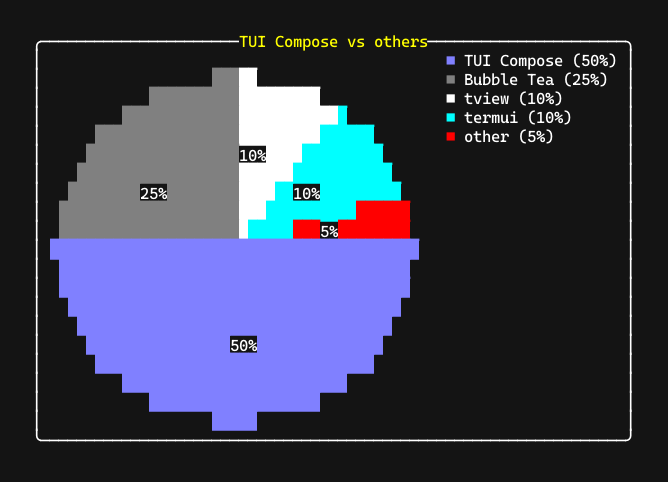
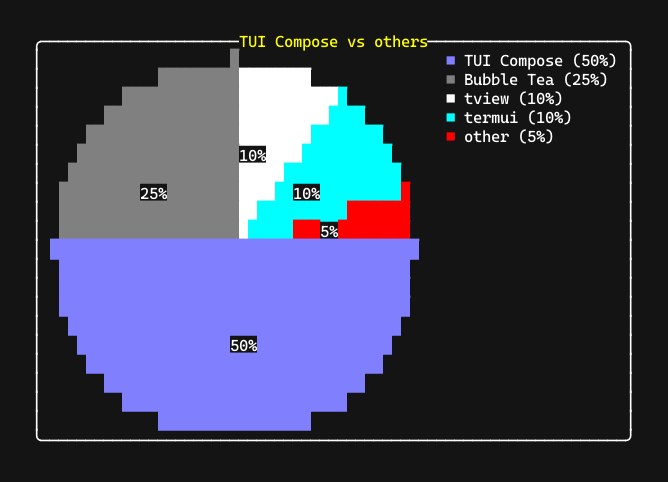
fix: соотношение сторон PieChart

diff --git a/extra/piechart.go b/extra/piechart.go
@@ -127,7 +127,7 @@ func (pc *PieChart) InnerText() string {
 		// Считаем угол от центра к этой точке
 
 		dx := float64(x - cx)
-		dy := float64(y-cy) * 2.2 // коррекция соотношения сторон, подобрано
+		dy := float64(y-cy) * 2 // коррекция соотношения сторон, подобрано
 		dist2 := dx*dx + dy*dy
 
 		if dist2 > float64(pc.radius*pc.radius) {
@@ -179,7 +179,7 @@ func (pc *PieChart) InnerText() string {
 			am := (before+a)/2 - 0.1 // середина
 
 			x := cx + int(math.Cos(am)*float64(textRadius))
-			y := cy + int(math.Sin(am)*float64(textRadius)/2.2) // коррекция соотношения сторон
+			y := cy + int(math.Sin(am)*float64(textRadius)/2) // коррекция соотношения сторон
 
 			drawText(x, y, fmt.Sprintf("%.0f%%", (pc.data[i].Value/total)*100))
 
